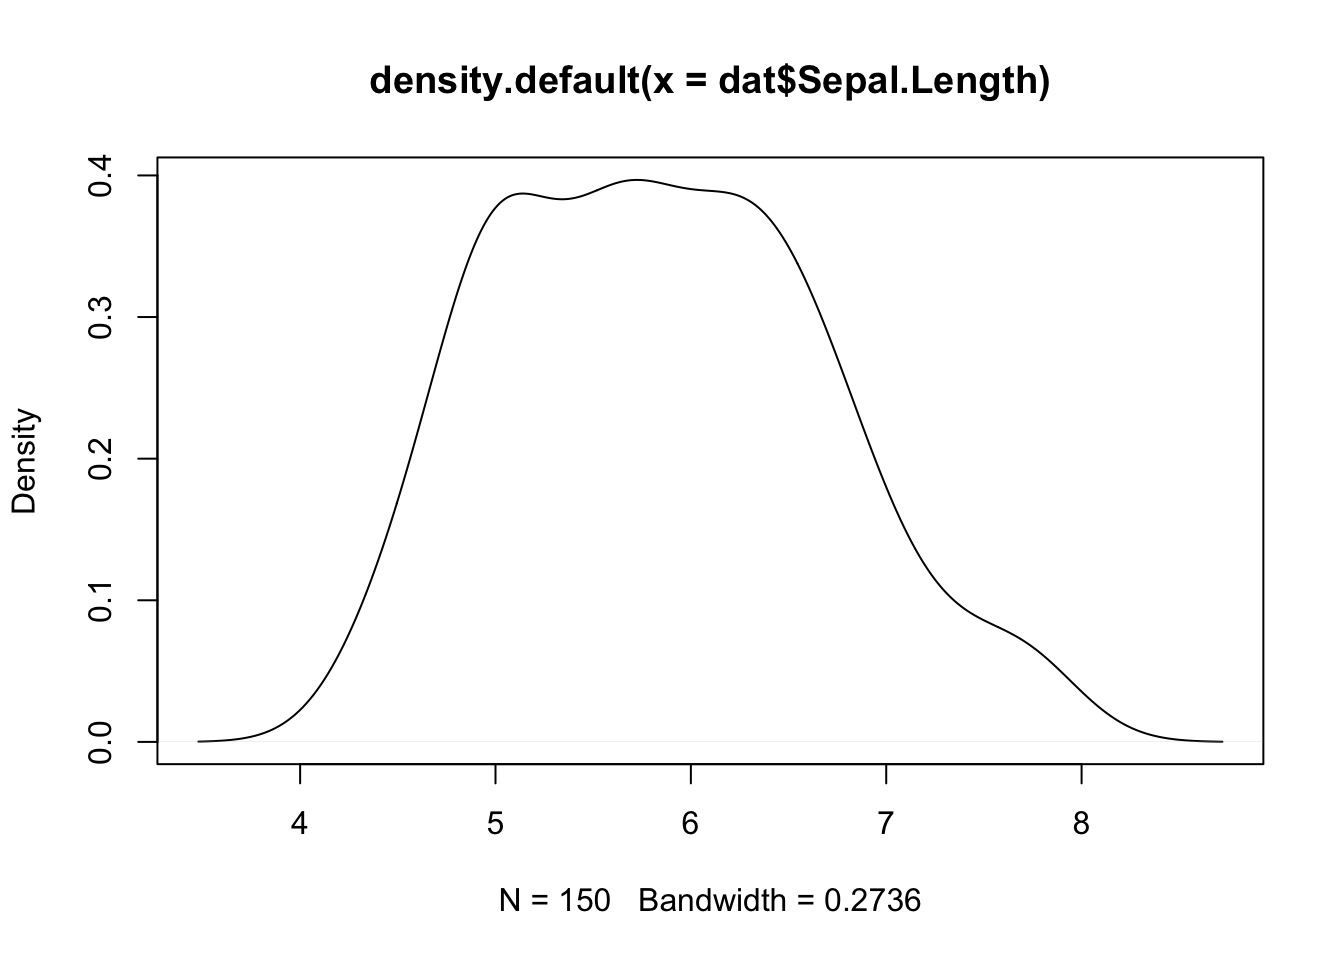
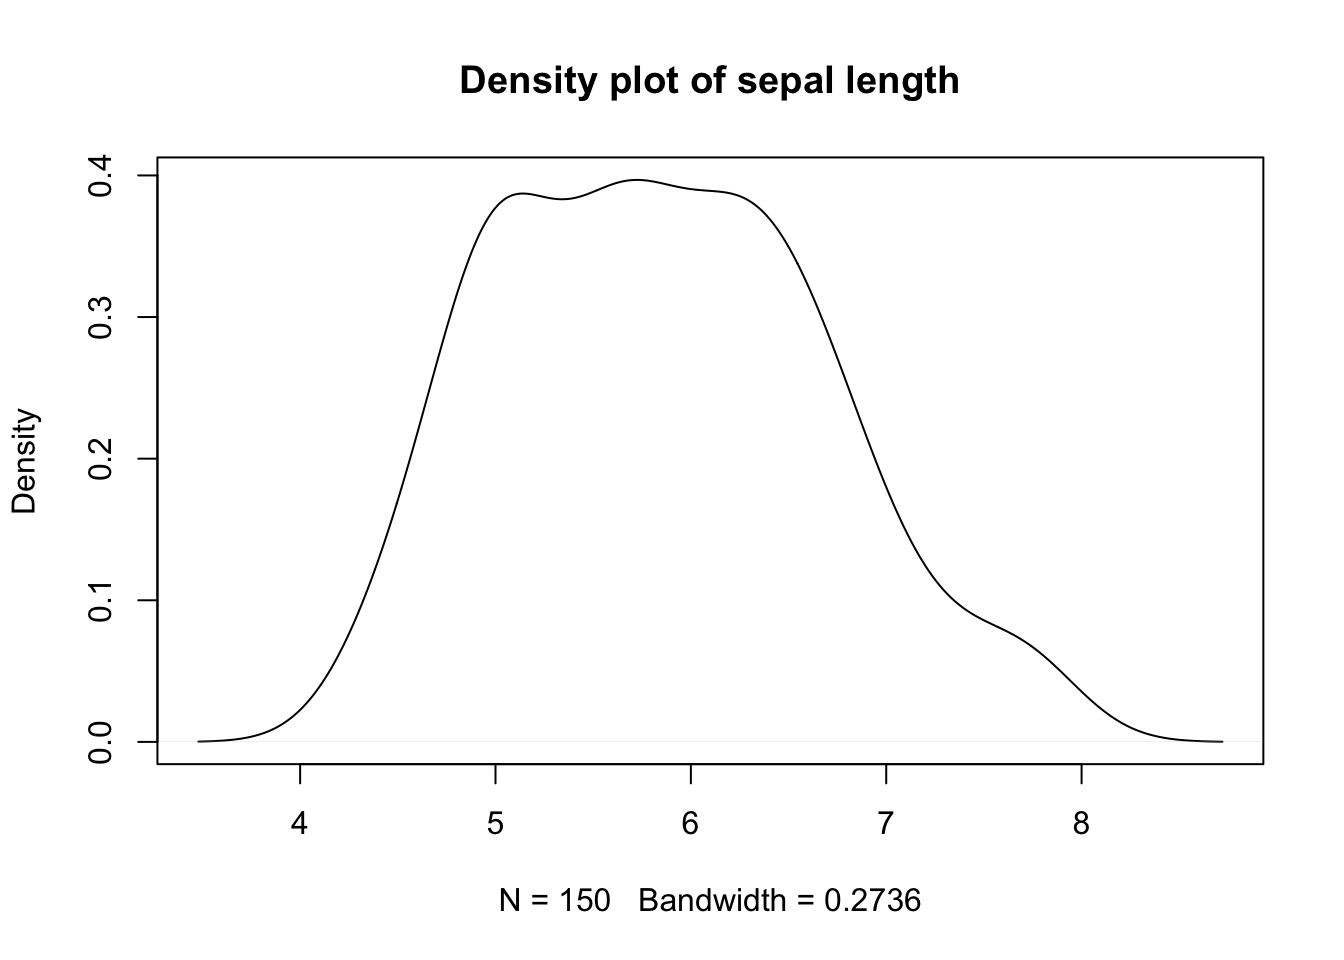
edit post

Changed region(s): [[0.2812, 0.0625, 0.7812, 0.125]]

diff --git a/public/blog/descriptive-statistics-in-r/index.html b/public/blog/descriptive-statistics-in-r/index.html
@@ -125,7 +125,7 @@
                         </span>
 
                         <span class="reading-time middot">
-                            18 minute read
+                            19 minute read
                         </span>
 
                         <div class="d-none d-md-inline tags">
@@ -190,6 +190,7 @@
 </ul></li>
 <li><a href="#density-plot">Density plot</a></li>
 <li><a href="#correlation-plot">Correlation plot</a></li>
+<li><a href="#advanced-descriptive-statistics">Advanced descriptive statistics</a></li>
 </ul>
 </div>
 
@@ -329,7 +330,7 @@ range2(dat$Sepal.Length)</code></pre>
 <pre><code>## [1] 0.8280661</code></pre>
 <pre class="r"><code>var(dat$Sepal.Length) # variance</code></pre>
 <pre><code>## [1] 0.6856935</code></pre>
-<p>Remember from this <a href="/blog/descriptive-statistics-by-hand/">article</a> that the standard deviation and the variance are different whether we compute it for a sample or a population (see the difference between the two <a href="/blog/what-is-the-difference-between-population-and-sample/">here</a>). In R, the standard deviation and the variance are computed as if the data represent a sample (so the denominator is <span class="math inline">\(n - 1\)</span>, where <span class="math inline">\(n\)</span> is the number of observations). To my knowledge, there is no function by default in R that computes the standard deviation or variance for a population.</p>
+<p>Remember from the article <a href="/blog/descriptive-statistics-by-hand/">descriptive statistics by hand</a> that the standard deviation and the variance are different whether we compute it for a sample or a population (see the <a href="/blog/what-is-the-difference-between-population-and-sample/">difference between sample and population</a>). In R, the standard deviation and the variance are computed as if the data represent a sample (so the denominator is <span class="math inline">\(n - 1\)</span>, where <span class="math inline">\(n\)</span> is the number of observations). To my knowledge, there is no function by default in R that computes the standard deviation or variance for a population.</p>
 <p><em>Tip:</em> to compute the standard deviation (or variance) of multiple variables at the same time, use <code>lapply()</code> with the appropriate statistics as second argument:</p>
 <pre class="r"><code>lapply(dat[, 1:4], sd)</code></pre>
 <pre><code>## $Sepal.Length
@@ -608,7 +609,8 @@ ggqqplot(dat$Sepal.Length)</code></pre>
 <div id="density-plot" class="section level1">
 <h1>Density plot</h1>
 <p>Density plot is a smoothed version of the histogram and is used in the same concept, that is, to represent the distribution of a numeric variable. The functions <code>plot()</code> and <code>density()</code> are used together to draw a density plot:</p>
-<pre class="r"><code>plot(density(dat$Sepal.Length))</code></pre>
+<pre class="r"><code>plot(density(dat$Sepal.Length),
+     main = &quot;Density plot of sepal length&quot;) # edit title</code></pre>
 <p><img src="/blog/descriptive-statistics-in-r_files/figure-html/unnamed-chunk-47-1.png" width="100%" style="display: block; margin: auto;" /></p>
 <p>In <code>{ggplot2}</code>:</p>
 <pre class="r"><code>ggplot(dat) +
@@ -619,6 +621,10 @@ ggqqplot(dat$Sepal.Length)</code></pre>
 <div id="correlation-plot" class="section level1">
 <h1>Correlation plot</h1>
 <p>The last type of descriptive plot is a correlation plot, also called a correlogram. This type of graph is more complex than the ones presented above, so it is detailed in a separate article. See <a href="/blog/correlogram-in-r-how-to-highlight-the-most-correlated-variables-in-a-dataset/">how to draw a correlogram to highlight the most correlated variables in a dataset</a>.</p>
+</div>
+<div id="advanced-descriptive-statistics" class="section level1">
+<h1>Advanced descriptive statistics</h1>
+<p>We covered the main functions to compute the most common and basic descriptive statistics. There are, however, many more functions to perform more advanced descriptive statistics in R. In this section, I present some of them with applications to our dataset.</p>
 <p>Thanks for reading. I hope this article helped you to do descriptive statistics in R. If you would like to do the same by hand or understand what these statistics represent, read the article “<a href="/blog/descriptive-statistics-by-hand/">Descriptive statistics by hand</a>”.</p>
 <p>As always, if you have a question or a suggestion related to the topic covered in this article, please add it as a comment so other readers can benefit from the discussion. If you find a mistake or bug, you can inform me by <a href="https://github.com/AntoineSoetewey/statsandr/issues" target="_blank">raising an issue on GitHub</a>. For all other requests, you can <a href="/contact/">contact me</a>.</p>
 <p>Get updates every time a new article is published by <a href="/subscribe/">subscribing to this blog</a>.</p>

diff --git a/content/blog/descriptive-statistics-in-r.html b/content/blog/descriptive-statistics-in-r.html
@@ -45,6 +45,7 @@ output:
 </ul></li>
 <li><a href="#density-plot">Density plot</a></li>
 <li><a href="#correlation-plot">Correlation plot</a></li>
+<li><a href="#advanced-descriptive-statistics">Advanced descriptive statistics</a></li>
 </ul>
 </div>
 
@@ -184,7 +185,7 @@ range2(dat$Sepal.Length)</code></pre>
 <pre><code>## [1] 0.8280661</code></pre>
 <pre class="r"><code>var(dat$Sepal.Length) # variance</code></pre>
 <pre><code>## [1] 0.6856935</code></pre>
-<p>Remember from this <a href="/blog/descriptive-statistics-by-hand/">article</a> that the standard deviation and the variance are different whether we compute it for a sample or a population (see the difference between the two <a href="/blog/what-is-the-difference-between-population-and-sample/">here</a>). In R, the standard deviation and the variance are computed as if the data represent a sample (so the denominator is <span class="math inline">\(n - 1\)</span>, where <span class="math inline">\(n\)</span> is the number of observations). To my knowledge, there is no function by default in R that computes the standard deviation or variance for a population.</p>
+<p>Remember from the article <a href="/blog/descriptive-statistics-by-hand/">descriptive statistics by hand</a> that the standard deviation and the variance are different whether we compute it for a sample or a population (see the <a href="/blog/what-is-the-difference-between-population-and-sample/">difference between sample and population</a>). In R, the standard deviation and the variance are computed as if the data represent a sample (so the denominator is <span class="math inline">\(n - 1\)</span>, where <span class="math inline">\(n\)</span> is the number of observations). To my knowledge, there is no function by default in R that computes the standard deviation or variance for a population.</p>
 <p><em>Tip:</em> to compute the standard deviation (or variance) of multiple variables at the same time, use <code>lapply()</code> with the appropriate statistics as second argument:</p>
 <pre class="r"><code>lapply(dat[, 1:4], sd)</code></pre>
 <pre><code>## $Sepal.Length
@@ -463,7 +464,8 @@ ggqqplot(dat$Sepal.Length)</code></pre>
 <div id="density-plot" class="section level1">
 <h1>Density plot</h1>
 <p>Density plot is a smoothed version of the histogram and is used in the same concept, that is, to represent the distribution of a numeric variable. The functions <code>plot()</code> and <code>density()</code> are used together to draw a density plot:</p>
-<pre class="r"><code>plot(density(dat$Sepal.Length))</code></pre>
+<pre class="r"><code>plot(density(dat$Sepal.Length),
+     main = &quot;Density plot of sepal length&quot;) # edit title</code></pre>
 <p><img src="/blog/descriptive-statistics-in-r_files/figure-html/unnamed-chunk-47-1.png" width="100%" style="display: block; margin: auto;" /></p>
 <p>In <code>{ggplot2}</code>:</p>
 <pre class="r"><code>ggplot(dat) +
@@ -474,6 +476,10 @@ ggqqplot(dat$Sepal.Length)</code></pre>
 <div id="correlation-plot" class="section level1">
 <h1>Correlation plot</h1>
 <p>The last type of descriptive plot is a correlation plot, also called a correlogram. This type of graph is more complex than the ones presented above, so it is detailed in a separate article. See <a href="/blog/correlogram-in-r-how-to-highlight-the-most-correlated-variables-in-a-dataset/">how to draw a correlogram to highlight the most correlated variables in a dataset</a>.</p>
+</div>
+<div id="advanced-descriptive-statistics" class="section level1">
+<h1>Advanced descriptive statistics</h1>
+<p>We covered the main functions to compute the most common and basic descriptive statistics. There are, however, many more functions to perform more advanced descriptive statistics in R. In this section, I present some of them with applications to our dataset.</p>
 <p>Thanks for reading. I hope this article helped you to do descriptive statistics in R. If you would like to do the same by hand or understand what these statistics represent, read the article “<a href="/blog/descriptive-statistics-by-hand/">Descriptive statistics by hand</a>”.</p>
 <p>As always, if you have a question or a suggestion related to the topic covered in this article, please add it as a comment so other readers can benefit from the discussion. If you find a mistake or bug, you can inform me by <a href="https://github.com/AntoineSoetewey/statsandr/issues" target="_blank">raising an issue on GitHub</a>. For all other requests, you can <a href="/contact/">contact me</a>.</p>
 <p>Get updates every time a new article is published by <a href="/subscribe/">subscribing to this blog</a>.</p>
